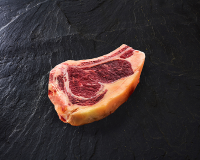
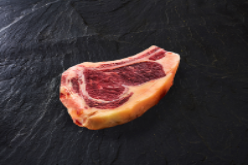
modified:   el-fogon-criollo/assets/css/styles.css 	new file:   el-fogon-criollo/assets/images/products/T-bone-steak.webp 	new file:   el-fogon-criollo/assets/images/products/cabeza-lomo-cerdo.webp 	modified:   el-fogon-criollo/assets/images/products/chuleta-40-45.webp 	new file:   el-fogon-criollo/

diff --git a/el-fogon-criollo/assets/css/styles.css b/el-fogon-criollo/assets/css/styles.css
@@ -453,3 +453,35 @@ footer .privacy-policy a:hover {
     object-fit: cover;
 }
 
+/* Nuestros porductos */
+.card,h5 {
+    font-size: 26px;
+}
+
+.card,img {
+    object-fit: cover;
+    height: 200px;
+    width: 100%;
+}
+
+.card-body {
+    background-color: #3C3B40;
+    color: lightgray !important;
+}
+
+.card-text {
+    color: lightgray !important;
+}
+
+.btn-primary {
+    background-color: #ffc107;
+    border-color: #ffc107;
+    color: black;
+    transition: all 0.3s ease;
+}
+
+.btn-primary:hover {
+    background-color: #ffc107;
+    border-color: #ffc107;
+    color: white;
+}

diff --git a/el-fogon-criollo/views/users/products/ourCart.php b/el-fogon-criollo/views/users/products/ourCart.php
@@ -9,18 +9,26 @@
         </div>
     </div>
 
-    <div class="productos-grid">
-        <?php if (!empty($productos)): ?>
-            <?php foreach ($productos as $producto): ?>
-                <div class="producto-card">
-                    <img src="./assets/images/products/<?=$producto->getImagen()?>" alt="<?=$producto->getNombre()?>" loading="lazy">
-                    <h3><?=$producto->getNombre()?></h3>
-                    <p><?=$producto->getTipo()?></p>
-                    <p><strong>$<?= number_format($producto->getPrecio(), 2) ?></strong></p>
-                </div>
-            <?php endforeach; ?>
-        <?php else: ?>
-            <p>No hay productos disponibles en este momento.</p>
-        <?php endif; ?>
+    <br>
+
+    <div class="container my-5">
+        <div class="row g-4">
+            <?php if (!empty($productos)): ?>
+                <?php foreach ($productos as $producto): ?>
+                    <div class="col-12 col-sm-6 col-md-4 col-lg-3">
+                        <div class="card h-100 text-center">
+                            <img src="./assets/images/products/<?=$producto->getImagen()?>" class="card-img-top img-fluid" alt="<?=$producto->getNombre()?>">
+                            <div class="card-body">
+                                <h5 class="card-title"><?=$producto->getNombre()?></h5>
+                                <p class="card-text text-muted"><?=number_format($producto->getPrecio(), 2)?>€</p>
+                            </div>
+                            <button class="btn btn-primary">Añadir al carrito</button>
+                        </div>
+                    </div>
+                <?php endforeach; ?>
+            <?php else: ?>
+                <p class="text-center">No hay productos disponibles en este momento.</p>
+            <?php endif; ?>
+        </div>
     </div>
 </div>

diff --git a/el-fogon-criollo/models/Producto.php b/el-fogon-criollo/models/Producto.php
@@ -2,9 +2,10 @@
 
 include_once "./config/dataBase.php";
 
-abstract class Producto{
+class Producto{
     protected $producto_id;
     protected $nombre;
+    protected $descripcion;
     protected $tipo;
     protected $precio;
     protected $imagen;
@@ -18,13 +19,17 @@ abstract class Producto{
         
         if ($result && $result->num_rows > 0){
             while ($row = $result->fetch_assoc()){
-                $productos [] = new static(
-                    $row['producto_id'], 
-                    $row['nombre'], 
-                    $row['tipo'], 
-                    $row['precio'], 
-                    $row['imagen']
-                );
+
+                $producto = new Producto();
+
+                $producto->setProducto_id($row['producto_id']);
+                $producto->setNombre($row['nombre']);
+                $producto->setDescripcion($row['descripcion']);
+                $producto->setTipo($row['tipo']);
+                $producto->setPrecio($row['precio']);
+                $producto->setImagen($row['imagen']);
+
+                $productos[] = $producto;
             }
         }
 
@@ -78,6 +83,18 @@ abstract class Producto{
 
     public function setImagen($imagen){
         $this->imagen = $imagen;
+
+        return $this;
+    }
+
+    public function getDescripcion()
+    {
+        return $this->descripcion;
+    }
+
+    public function setDescripcion($descripcion)
+    {
+        $this->descripcion = $descripcion;
 
         return $this;
     }

diff --git a/el-fogon-criollo/controllers/productoController.php b/el-fogon-criollo/controllers/productoController.php
@@ -20,6 +20,7 @@ class productoController{
     }
 
     public function ourCart(){
+        include_once "models/Producto.php";
         $productos = Producto::getAll();
         
         $view = "views/users/products/ourCart.php";
